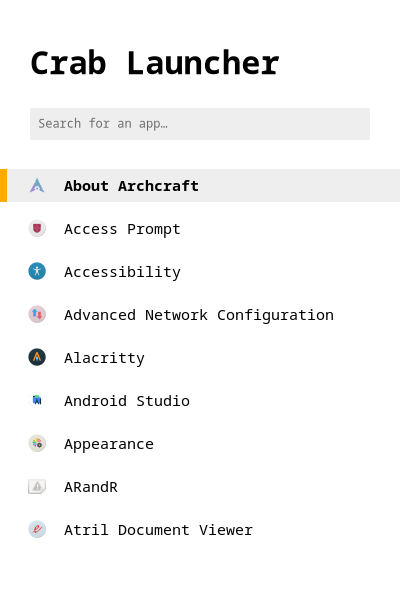
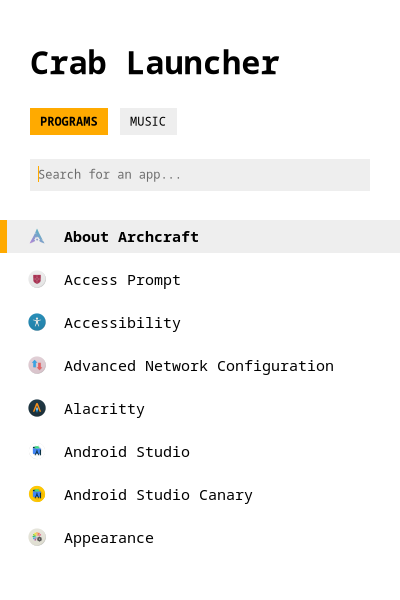
feat: v0.2.0 - updates usage and screenshots

diff --git a/README.md b/README.md
@@ -10,6 +10,12 @@ After downloading the binary generate default config file and copy it to `~/.con
 
 To generate the config file, run `crab-launcher --generate-config`.
 
+After generating config file you have two options:
+- run standalone version: `crab-launcher --run`
+- run daemon and show window if you want to: `crab-launcher --daemon`, `crab-launcher --show`
+
+You made it!
+
 ## Screenshots
 Here are some screenshots of this app.
 
@@ -38,4 +44,5 @@ opacity: 1.0
 music:
   account_id: ""
   service: "youtube"
+  api_key: ""
 ```
